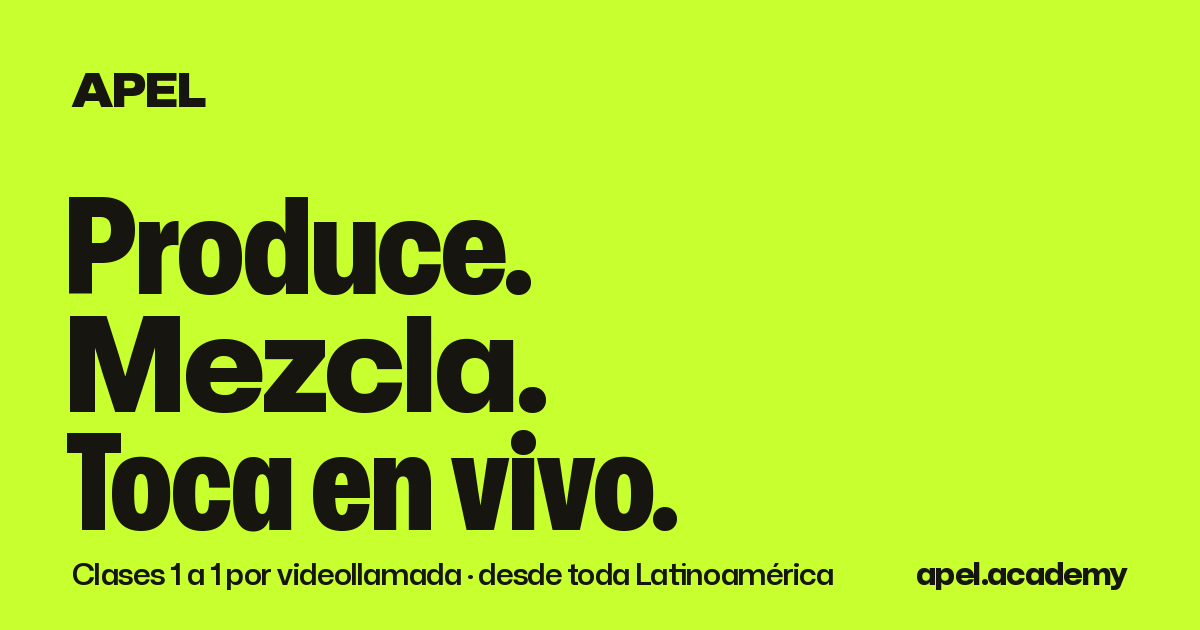
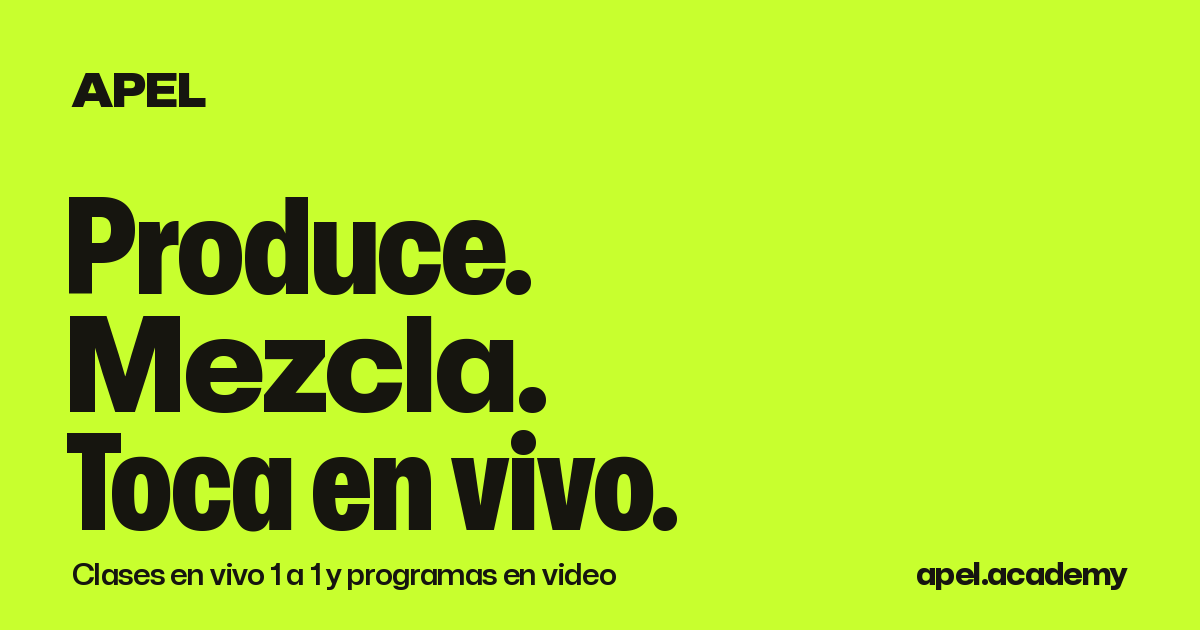
Portada e imagen para compartir mencionan los programas en video
- og-image: «Clases en vivo 1 a 1 y programas en video» (versión nueva en la URL para que WhatsApp no use la anterior)
- Descripción, og:description y datos estructurados de la portada incluyen los programas en video

Claude-Session: https://claude.ai/code/session_01YYRvwmU2KmtRqbMyaDEYWM

Changed region(s): [[0.1233, 0.8746, 0.7092, 0.9349]]

diff --git a/index.html b/index.html
@@ -13,15 +13,15 @@
 <meta property="og:url" content="https://apel.academy/">
 <meta property="og:site_name" content="APEL">
 <meta property="og:locale" content="es_419">
-<meta property="og:image" content="https://apel.academy/assets/og-image.png">
+<meta property="og:image" content="https://apel.academy/assets/og-image.png?v=2">
 <meta property="og:image:width" content="1200">
 <meta property="og:image:height" content="630">
 <meta property="og:image:alt" content="APEL: Produce. Mezcla. Toca en vivo.">
 <meta name="twitter:card" content="summary_large_image">
-<script type="application/ld+json">{"@context":"https://schema.org","@type":"EducationalOrganization","name":"APEL","alternateName":"Academy of Production, Engineering and Live","url":"https://apel.academy/","logo":"https://apel.academy/assets/icon-512.png","email":"hola@apel.academy","description":"Clases online en vivo, 1 a 1, de producción musical, mezcla, masterización y consola digital.","areaServed":"Latinoamérica"}</script>
-<meta name="description" content="Clases online en vivo, 1 a 1, de producción musical, mezcla, masterización y consola digital (Behringer WING, X32 y Midas M32). Programas de 3 a 6 meses con certificado. Precios según tu país.">
+<script type="application/ld+json">{"@context":"https://schema.org","@type":"EducationalOrganization","name":"APEL","alternateName":"Academy of Production, Engineering and Live","url":"https://apel.academy/","logo":"https://apel.academy/assets/icon-512.png","email":"hola@apel.academy","description":"Clases online en vivo 1 a 1 y programas en video de producción musical, mezcla, masterización y consola digital.","areaServed":"Latinoamérica"}</script>
+<meta name="description" content="Clases online en vivo 1 a 1 y programas en video de producción musical, mezcla, masterización y consola digital (Behringer WING, X32 y Midas M32). Programas de 3 a 6 meses con certificado. Precios según tu país.">
 <meta property="og:title" content="APEL · Production, Engineering, Live">
-<meta property="og:description" content="Produce. Mezcla. Toca en vivo. Clases en vivo 1 a 1 desde cualquier país de Latinoamérica.">
+<meta property="og:description" content="Produce. Mezcla. Toca en vivo. Clases en vivo 1 a 1 y programas en video, desde cualquier país de Latinoamérica.">
 <meta property="og:type" content="website">
 <meta name="theme-color" content="#C8FF2E">
 <link rel="preconnect" href="https://fonts.googleapis.com"><link rel="preconnect" href="https://fonts.gstatic.com" crossorigin>

diff --git a/inscripcion.html b/inscripcion.html
@@ -16,7 +16,7 @@
 <meta property="og:url" content="https://apel.academy/inscripcion.html">
 <meta property="og:site_name" content="APEL">
 <meta property="og:locale" content="es_419">
-<meta property="og:image" content="https://apel.academy/assets/og-image.png">
+<meta property="og:image" content="https://apel.academy/assets/og-image.png?v=2">
 <meta property="og:image:width" content="1200">
 <meta property="og:image:height" content="630">
 <meta property="og:image:alt" content="APEL: Produce. Mezcla. Toca en vivo.">

diff --git a/privacidad.html b/privacidad.html
@@ -16,7 +16,7 @@
 <meta property="og:url" content="https://apel.academy/privacidad.html">
 <meta property="og:site_name" content="APEL">
 <meta property="og:locale" content="es_419">
-<meta property="og:image" content="https://apel.academy/assets/og-image.png">
+<meta property="og:image" content="https://apel.academy/assets/og-image.png?v=2">
 <meta property="og:image:width" content="1200">
 <meta property="og:image:height" content="630">
 <meta property="og:image:alt" content="APEL: Produce. Mezcla. Toca en vivo.">

diff --git a/reembolsos.html b/reembolsos.html
@@ -16,7 +16,7 @@
 <meta property="og:url" content="https://apel.academy/reembolsos.html">
 <meta property="og:site_name" content="APEL">
 <meta property="og:locale" content="es_419">
-<meta property="og:image" content="https://apel.academy/assets/og-image.png">
+<meta property="og:image" content="https://apel.academy/assets/og-image.png?v=2">
 <meta property="og:image:width" content="1200">
 <meta property="og:image:height" content="630">
 <meta property="og:image:alt" content="APEL: Produce. Mezcla. Toca en vivo.">

diff --git a/terminos.html b/terminos.html
@@ -16,7 +16,7 @@
 <meta property="og:url" content="https://apel.academy/terminos.html">
 <meta property="og:site_name" content="APEL">
 <meta property="og:locale" content="es_419">
-<meta property="og:image" content="https://apel.academy/assets/og-image.png">
+<meta property="og:image" content="https://apel.academy/assets/og-image.png?v=2">
 <meta property="og:image:width" content="1200">
 <meta property="og:image:height" content="630">
 <meta property="og:image:alt" content="APEL: Produce. Mezcla. Toca en vivo.">

diff --git a/tienda.html b/tienda.html
@@ -16,7 +16,7 @@
 <meta property="og:url" content="https://apel.academy/tienda.html">
 <meta property="og:site_name" content="APEL">
 <meta property="og:locale" content="es_419">
-<meta property="og:image" content="https://apel.academy/assets/og-image.png">
+<meta property="og:image" content="https://apel.academy/assets/og-image.png?v=2">
 <meta property="og:image:width" content="1200">
 <meta property="og:image:height" content="630">
 <meta property="og:image:alt" content="APEL: Produce. Mezcla. Toca en vivo.">
